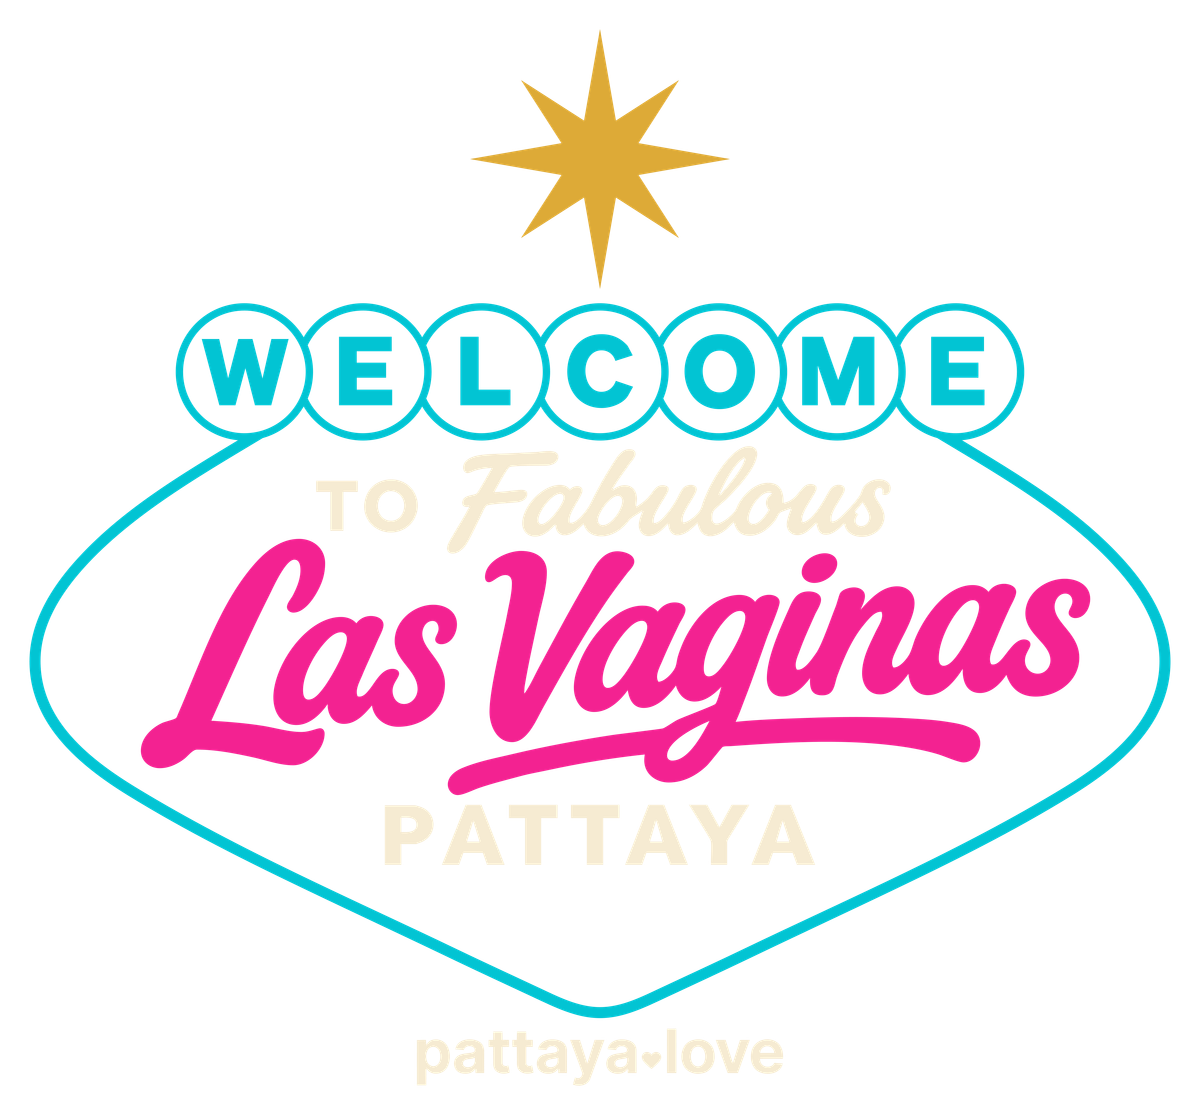
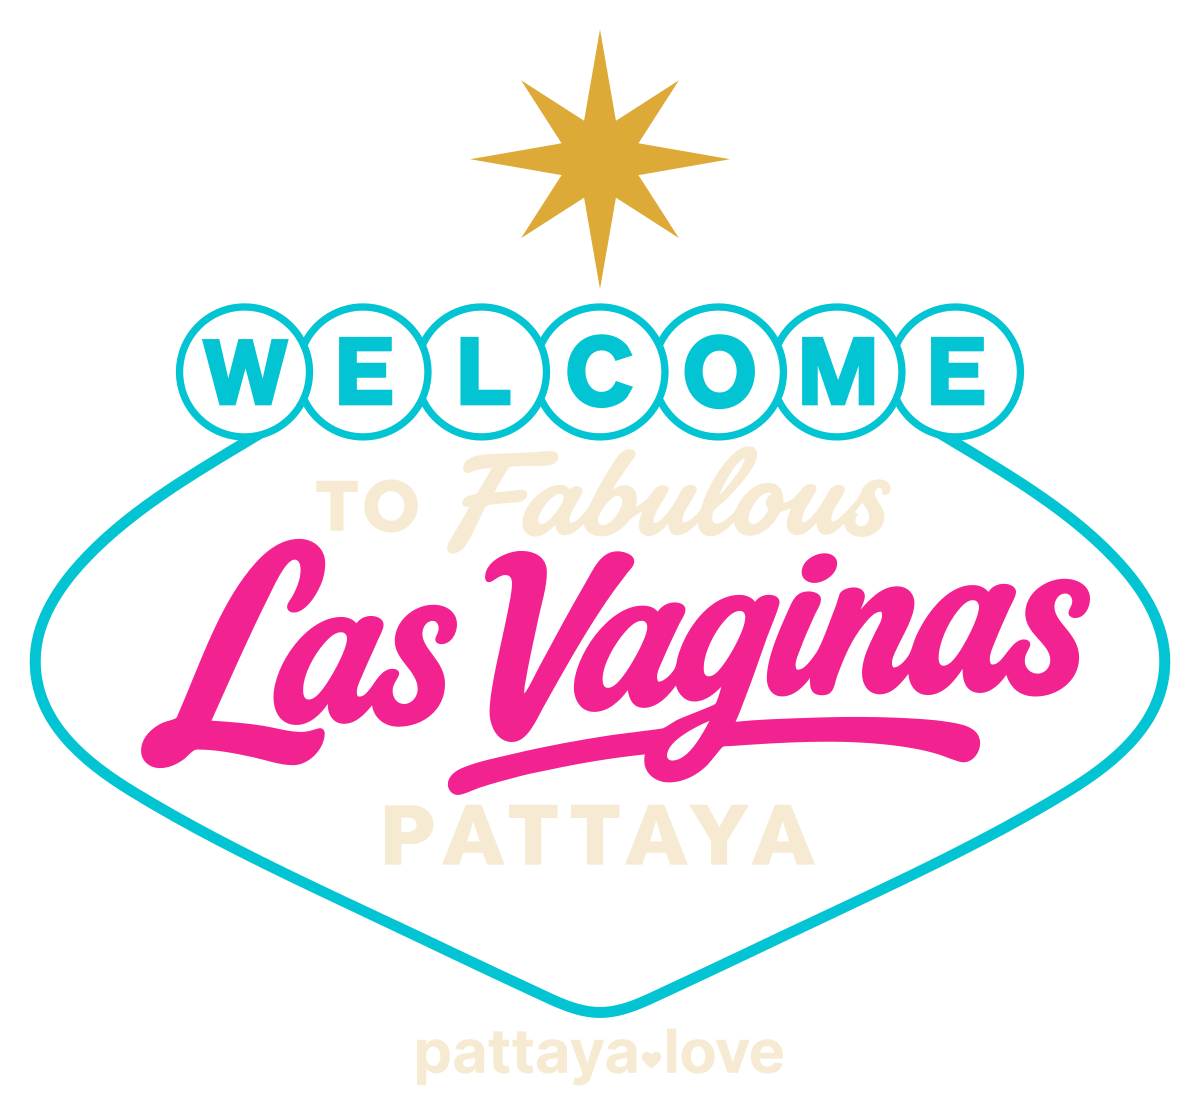
Shirts: dark wordmark on the white Classic Vegas shirt, smaller picker thumbnails (#12)
- Classic Vegas preview now uses the white-shirt variant of the artwork:
  the pattaya.love wordmark is navy (#092E4C) instead of cream, so it reads
  on a white shirt. The hero sign keeps the cream wordmark.
- Design picker tiles load dedicated 300 px PNGs (6-7 KB each) instead of
  1200 px images from the image service, which cannot go below 640 px.
- Stage image, photo strip and thank-you tee request widths the Vercel image
  service actually serves (640/828/1200).
- scripts/shirt-images.mjs regenerates the motif and thumbnail images from
  the print vectors.

diff --git a/src/data/shirts.ts b/src/data/shirts.ts
@@ -11,6 +11,9 @@ import type { ImageMetadata } from 'astro';
 import classicVegas from '../assets/images/shirts/motif-classic-vegas.png';
 import neonClub from '../assets/images/shirts/motif-neon-club.png';
 import desertGold from '../assets/images/shirts/motif-desert-gold.png';
+import classicVegasThumb from '../assets/images/shirts/thumb-classic-vegas.png';
+import neonClubThumb from '../assets/images/shirts/thumb-neon-club.png';
+import desertGoldThumb from '../assets/images/shirts/thumb-desert-gold.png';
 
 export interface ShirtMotif {
   slug: string;
@@ -20,6 +23,11 @@ export interface ShirtMotif {
   /** Background the transparent motif is previewed on, roughly the shirt colour. */
   previewBg: 'light' | 'dark';
   image: ImageMetadata;
+  /**
+   * 300 px version for the design picker tiles, used as a plain file.
+   * Both images come from scripts/shirt-images.mjs.
+   */
+  thumb: ImageMetadata;
   /** Two ink colours of the motif, used for the glow behind the product preview. */
   glow: [string, string];
   /**
@@ -38,6 +46,7 @@ export const motifs: ShirtMotif[] = [
     shirtColors: 'White or grey shirt',
     previewBg: 'light',
     image: classicVegas,
+    thumb: classicVegasThumb,
     glow: ['#E8B52A', '#CB151B'],
   },
   {
@@ -47,6 +56,7 @@ export const motifs: ShirtMotif[] = [
     shirtColors: 'Black shirt',
     previewBg: 'dark',
     image: neonClub,
+    thumb: neonClubThumb,
     glow: ['#F32291', '#02C4D3'],
   },
   {
@@ -56,6 +66,7 @@ export const motifs: ShirtMotif[] = [
     shirtColors: 'Black shirt',
     previewBg: 'dark',
     image: desertGold,
+    thumb: desertGoldThumb,
     glow: ['#DDAA37', '#F6EBD2'],
   },
 ];
